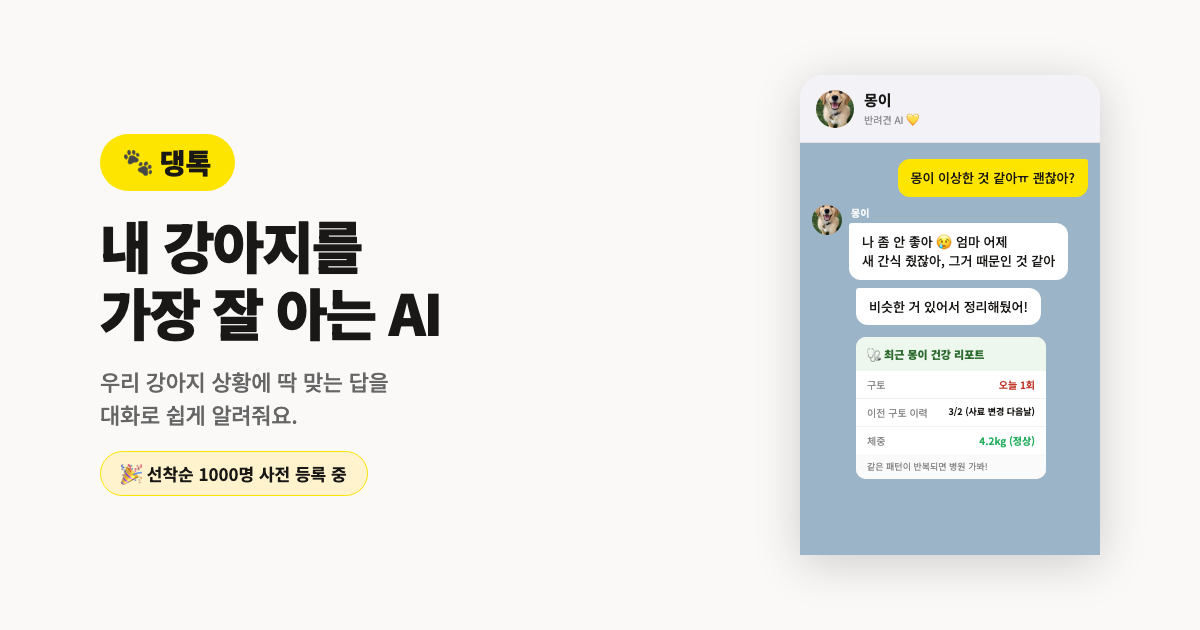
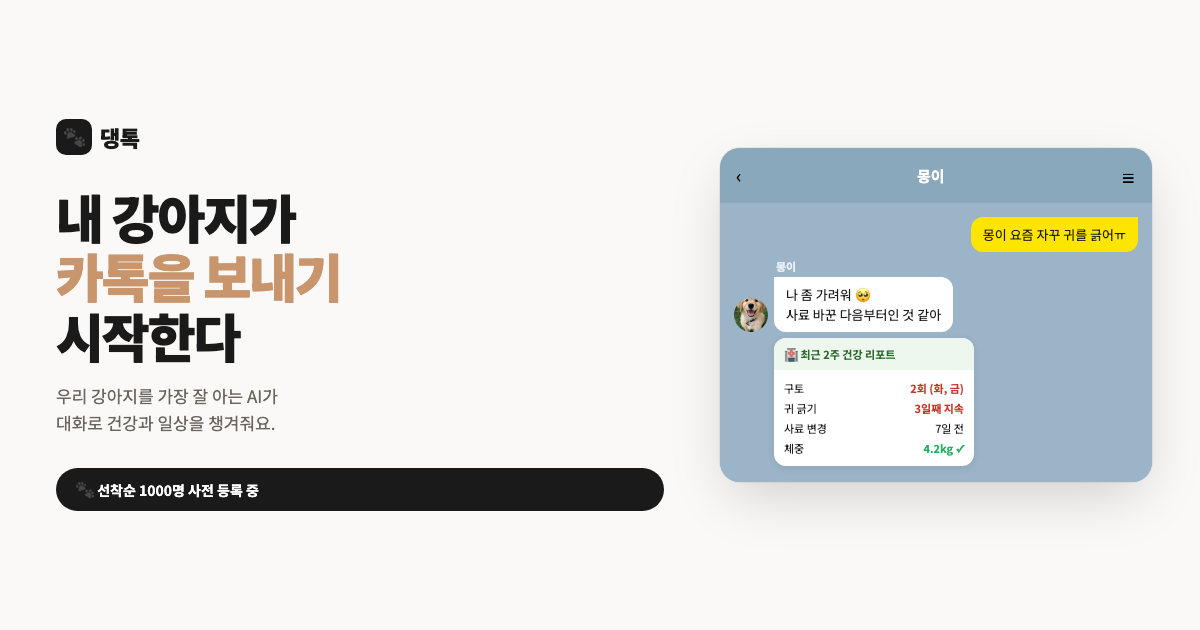
feat: update Korean OG image with KakaoTalk-style design

Changed region(s): [[0.5858, 0.1206, 0.9867, 0.9048], [0.0308, 0.181, 0.555, 0.8143]]

diff --git a/Assets/og-image-kr.html b/Assets/og-image-kr.html
@@ -1,0 +1,213 @@
+<!DOCTYPE html>
+<html>
+<head>
+<meta charset="UTF-8">
+<style>
+  @import url('https://fonts.googleapis.com/css2?family=Noto+Sans+KR:wght@400;500;700;900&display=swap');
+  * { box-sizing: border-box; margin: 0; padding: 0; }
+  body {
+    width: 1200px;
+    height: 630px;
+    background: #FAF9F7;
+    font-family: 'Noto Sans KR', sans-serif;
+    display: flex;
+    align-items: center;
+    overflow: hidden;
+  }
+
+  .left {
+    flex: 1;
+    padding: 64px 56px;
+    display: flex;
+    flex-direction: column;
+    justify-content: center;
+  }
+
+  .logo {
+    display: flex;
+    align-items: center;
+    gap: 8px;
+    margin-bottom: 32px;
+  }
+  .logo-icon {
+    width: 36px;
+    height: 36px;
+    background: #1A1A1A;
+    border-radius: 10px;
+    display: flex;
+    align-items: center;
+    justify-content: center;
+    font-size: 18px;
+  }
+  .logo-text {
+    font-size: 22px;
+    font-weight: 900;
+    color: #1A1A1A;
+    letter-spacing: -0.5px;
+  }
+
+  .headline {
+    font-size: 52px;
+    font-weight: 900;
+    color: #1A1A1A;
+    letter-spacing: -2px;
+    line-height: 1.15;
+    margin-bottom: 16px;
+  }
+  .headline span { color: #C8956C; }
+
+  .sub {
+    font-size: 17px;
+    color: #6B6560;
+    line-height: 1.6;
+    margin-bottom: 32px;
+    font-weight: 400;
+  }
+
+  .badge {
+    display: inline-flex;
+    align-items: center;
+    gap: 6px;
+    background: #1A1A1A;
+    color: #fff;
+    font-size: 14px;
+    font-weight: 700;
+    padding: 10px 20px;
+    border-radius: 100px;
+  }
+
+  .right {
+    width: 480px;
+    padding: 40px 48px 40px 0;
+    display: flex;
+    align-items: center;
+    justify-content: center;
+  }
+
+  .chat-card {
+    background: var(--kakao-bg, #9BB4C7);
+    border-radius: 20px;
+    box-shadow: 0 20px 60px -10px rgba(0,0,0,.18), 0 0 0 1px rgba(0,0,0,.06);
+    overflow: hidden;
+    width: 100%;
+  }
+
+  .chat-header {
+    display: flex;
+    align-items: center;
+    justify-content: space-between;
+    padding: 14px 16px;
+    background: #8AA8BC;
+    font-size: 18px;
+  }
+  .chat-name { font-size: 15px; font-weight: 700; color: #fff; }
+
+  .chat-body {
+    padding: 14px 14px 16px;
+    display: flex;
+    flex-direction: column;
+    gap: 6px;
+    background: #9BB4C7;
+  }
+
+  .bubble-row { display: flex; align-items: flex-end; gap: 6px; }
+  .bubble-row.owner { flex-direction: row-reverse; }
+
+  .bubble-av {
+    width: 34px; height: 34px;
+    border-radius: 50%; overflow: hidden;
+    background: #C8956C; flex-shrink: 0;
+  }
+  .bubble-av img { width: 100%; height: 100%; object-fit: cover; }
+
+  .bubble-col { display: flex; flex-direction: column; gap: 3px; }
+  .bubble-name { font-size: 11px; font-weight: 600; color: rgba(255,255,255,.8); padding-left: 2px; }
+
+  .bubble {
+    max-width: 200px;
+    padding: 8px 12px;
+    font-size: 13px;
+    line-height: 1.5;
+    font-family: inherit;
+  }
+  .bubble-row:not(.owner) .bubble {
+    background: #fff;
+    border-radius: 0 12px 12px 12px;
+    color: #1C1C1E;
+  }
+  .bubble-row.owner .bubble {
+    background: #FEE500;
+    border-radius: 12px 0 12px 12px;
+    color: #1A1A1A;
+  }
+
+  .health-card {
+    background: #fff;
+    border-radius: 12px;
+    overflow: hidden;
+    max-width: 200px;
+    box-shadow: 0 2px 8px rgba(0,0,0,.08);
+    margin-left: 40px;
+  }
+  .hc-header {
+    background: #EEF7EE;
+    color: #2D6A2E;
+    font-size: 11px;
+    font-weight: 700;
+    padding: 7px 10px;
+  }
+  .hc-body { padding: 8px 10px; }
+  .hc-row {
+    display: flex;
+    justify-content: space-between;
+    font-size: 11px;
+    padding: 2px 0;
+    color: #1A1A1A;
+  }
+  .hc-row .alert { color: #C0392B; font-weight: 600; }
+  .hc-row .ok { color: #27AE60; font-weight: 600; }
+</style>
+</head>
+<body>
+  <div class="left">
+    <div class="logo">
+      <div class="logo-icon">🐾</div>
+      <span class="logo-text">댕톡</span>
+    </div>
+    <div class="headline">내 강아지가<br><span>카톡을 보내기</span><br>시작한다</div>
+    <div class="sub">우리 강아지를 가장 잘 아는 AI가<br>대화로 건강과 일상을 챙겨줘요.</div>
+    <div class="badge">🐾 선착순 1000명 사전 등록 중</div>
+  </div>
+
+  <div class="right">
+    <div class="chat-card">
+      <div class="chat-header">
+        <span>‹</span>
+        <span class="chat-name">몽이</span>
+        <span>☰</span>
+      </div>
+      <div class="chat-body">
+        <div class="bubble-row owner">
+          <div class="bubble">몽이 요즘 자꾸 귀를 긁어ㅠ</div>
+        </div>
+        <div class="bubble-row">
+          <div class="bubble-av"><img src="profile_thumbnail.jpg" alt="몽이"></div>
+          <div class="bubble-col">
+            <span class="bubble-name">몽이</span>
+            <div class="bubble">나 좀 가려워 🥺<br>사료 바꾼 다음부터인 것 같아</div>
+          </div>
+        </div>
+        <div class="health-card">
+          <div class="hc-header">🏥 최근 2주 건강 리포트</div>
+          <div class="hc-body">
+            <div class="hc-row"><span>구토</span><span class="alert">2회 (화, 금)</span></div>
+            <div class="hc-row"><span>귀 긁기</span><span class="alert">3일째 지속</span></div>
+            <div class="hc-row"><span>사료 변경</span><span>7일 전</span></div>
+            <div class="hc-row"><span>체중</span><span class="ok">4.2kg ✓</span></div>
+          </div>
+        </div>
+      </div>
+    </div>
+  </div>
+</body>
+</html>
